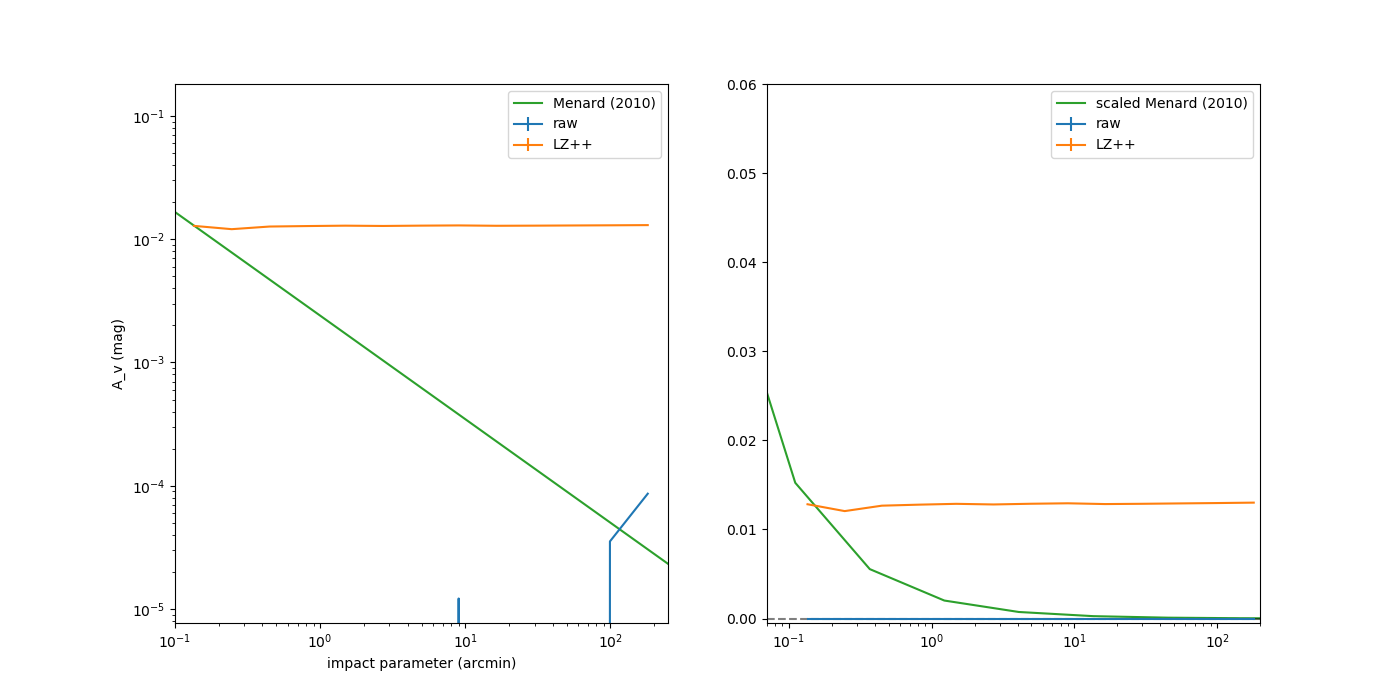
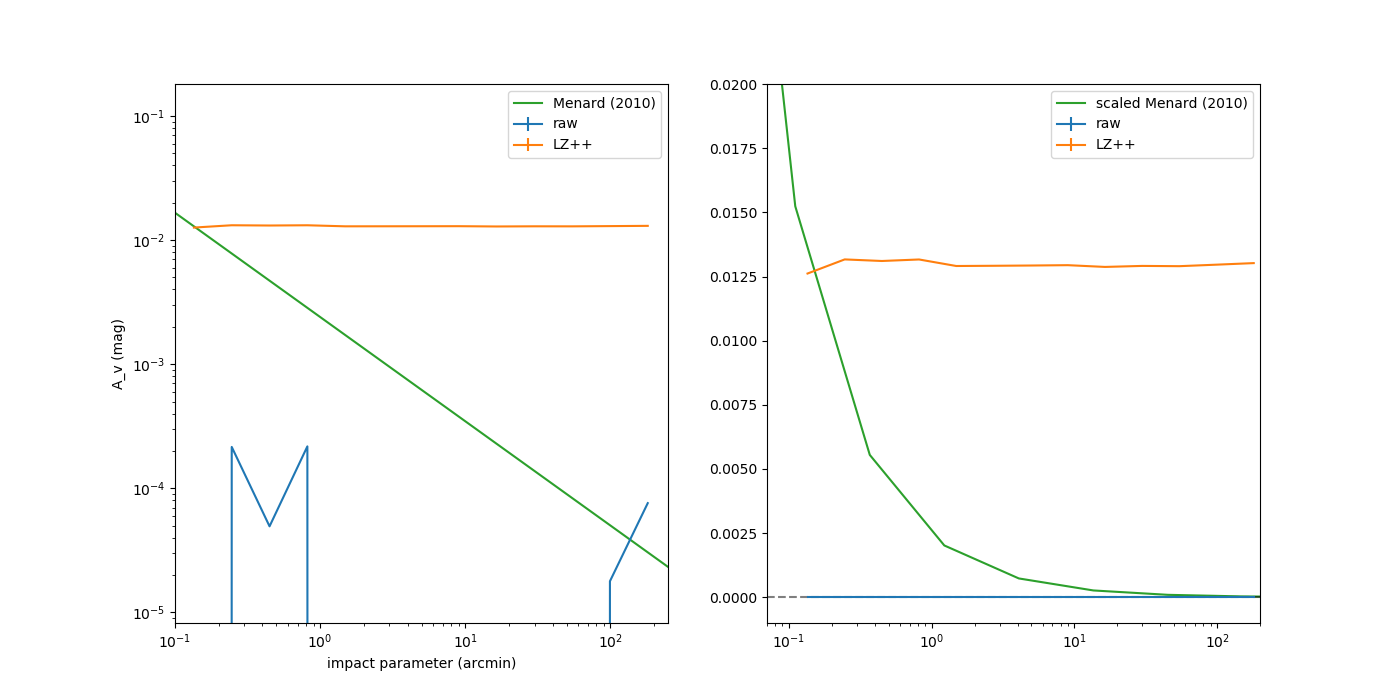
more star-redmagic correlations

diff --git a/src/dust_measurementNewFG.py b/src/dust_measurementNewFG.py
@@ -313,7 +313,7 @@ def plotres(dd_out,dr_out,fr_out=None,rr_out = None, ortho = False,ortho_index =
     ax2.set_xscale('log')
     ax2.legend()
     if not ortho:
-        fig.savefig('../outputs/correlationFuncFigures/dust_corrSTARS.png')
+        fig.savefig('../outputs/correlationFuncFigures/dust_corrSTARS_matchDistSize.png')
     else:
         fig.savefig('../outputs/correlationFuncFigures/STARS_corr_ortho-'+str(ortho_index)+'.png')
 
@@ -325,9 +325,9 @@ def main(argv):
     ra_name = 'DES_Y1A1_3x2pt_redMaGiC_RANDOMS.fits'
     #fg_name='galex_trimmed.fits'
     #fg_name='iifsc_des_overlap.fits'
-    fg_name='des_y1a1_starsMagCut.fits'
+    fg_name='des_y1a1_stars_MatchScosMagDistSize.fits'
     #scl = 13.2 # This changes depending on avg. redshift of fg
-    scl = 1.92
+    scl = 3.00
     #fg_name = 'Sscom_exactArea_galzCut.fits'
     rmp_file = os.path.join(datapath,rmp_name)
     rmz_file = os.path.join(datapath,rmz_name)
@@ -337,15 +337,15 @@ def main(argv):
     plot = True
     global ortho
     ortho = False
-    index = 3
+    index = 2
 
     
     if ortho:
 
-        dd_outfile = '../outputs/dust_correlation_dd_ortho-'+str(index)+'-iifsc.fits'
-        dr_outfile = '../outputs/dust_correlation_dr_ortho-'+str(index)+'-iifsc.fits'
-        fr_outfile = '../outputs/dust_correlation_fr_ortho-'+str(index)+'-iifsc.fits'
-        rr_outfile = '../outputs/dust_correlation_rr_ortho-'+str(index)+'-iifsc.fits'
+        dd_outfile = '../outputs/dust_correlation_dd_ortho-'+str(index)+'-star.fits'
+        dr_outfile = '../outputs/dust_correlation_dr_ortho-'+str(index)+'-star.fits'
+        fr_outfile = '../outputs/dust_correlation_fr_ortho-'+str(index)+'-star.fits'
+        rr_outfile = '../outputs/dust_correlation_rr_ortho-'+str(index)+'-star.fits'
     else:
         dd_outfile = '../outputs/dust_correlation_dd10.fits'
         dr_outfile = '../outputs/dust_correlation_dr10.fits'

diff --git a/src/dust_measurement.py b/src/dust_measurement.py
@@ -269,7 +269,7 @@ def plotres(dd_out,dr_out,fr_out=None,rr_out = None, ortho = False,ortho_index =
     #ax.set_ylim(1e-6,.2)
     ax.set_xlim(0.1,250)
     r = np.logspace(-2,2.7,10)
-    av = 2.4e-3 * (r/1.92)**(-0.84)
+    av = 2.4e-3 * (r/3.00)**(-0.84)
     ax.plot(r,av,label='Menard (2010)') 
     ax.set_xlabel('impact parameter (arcmin)')
     ax.set_ylabel('A_v (mag)')